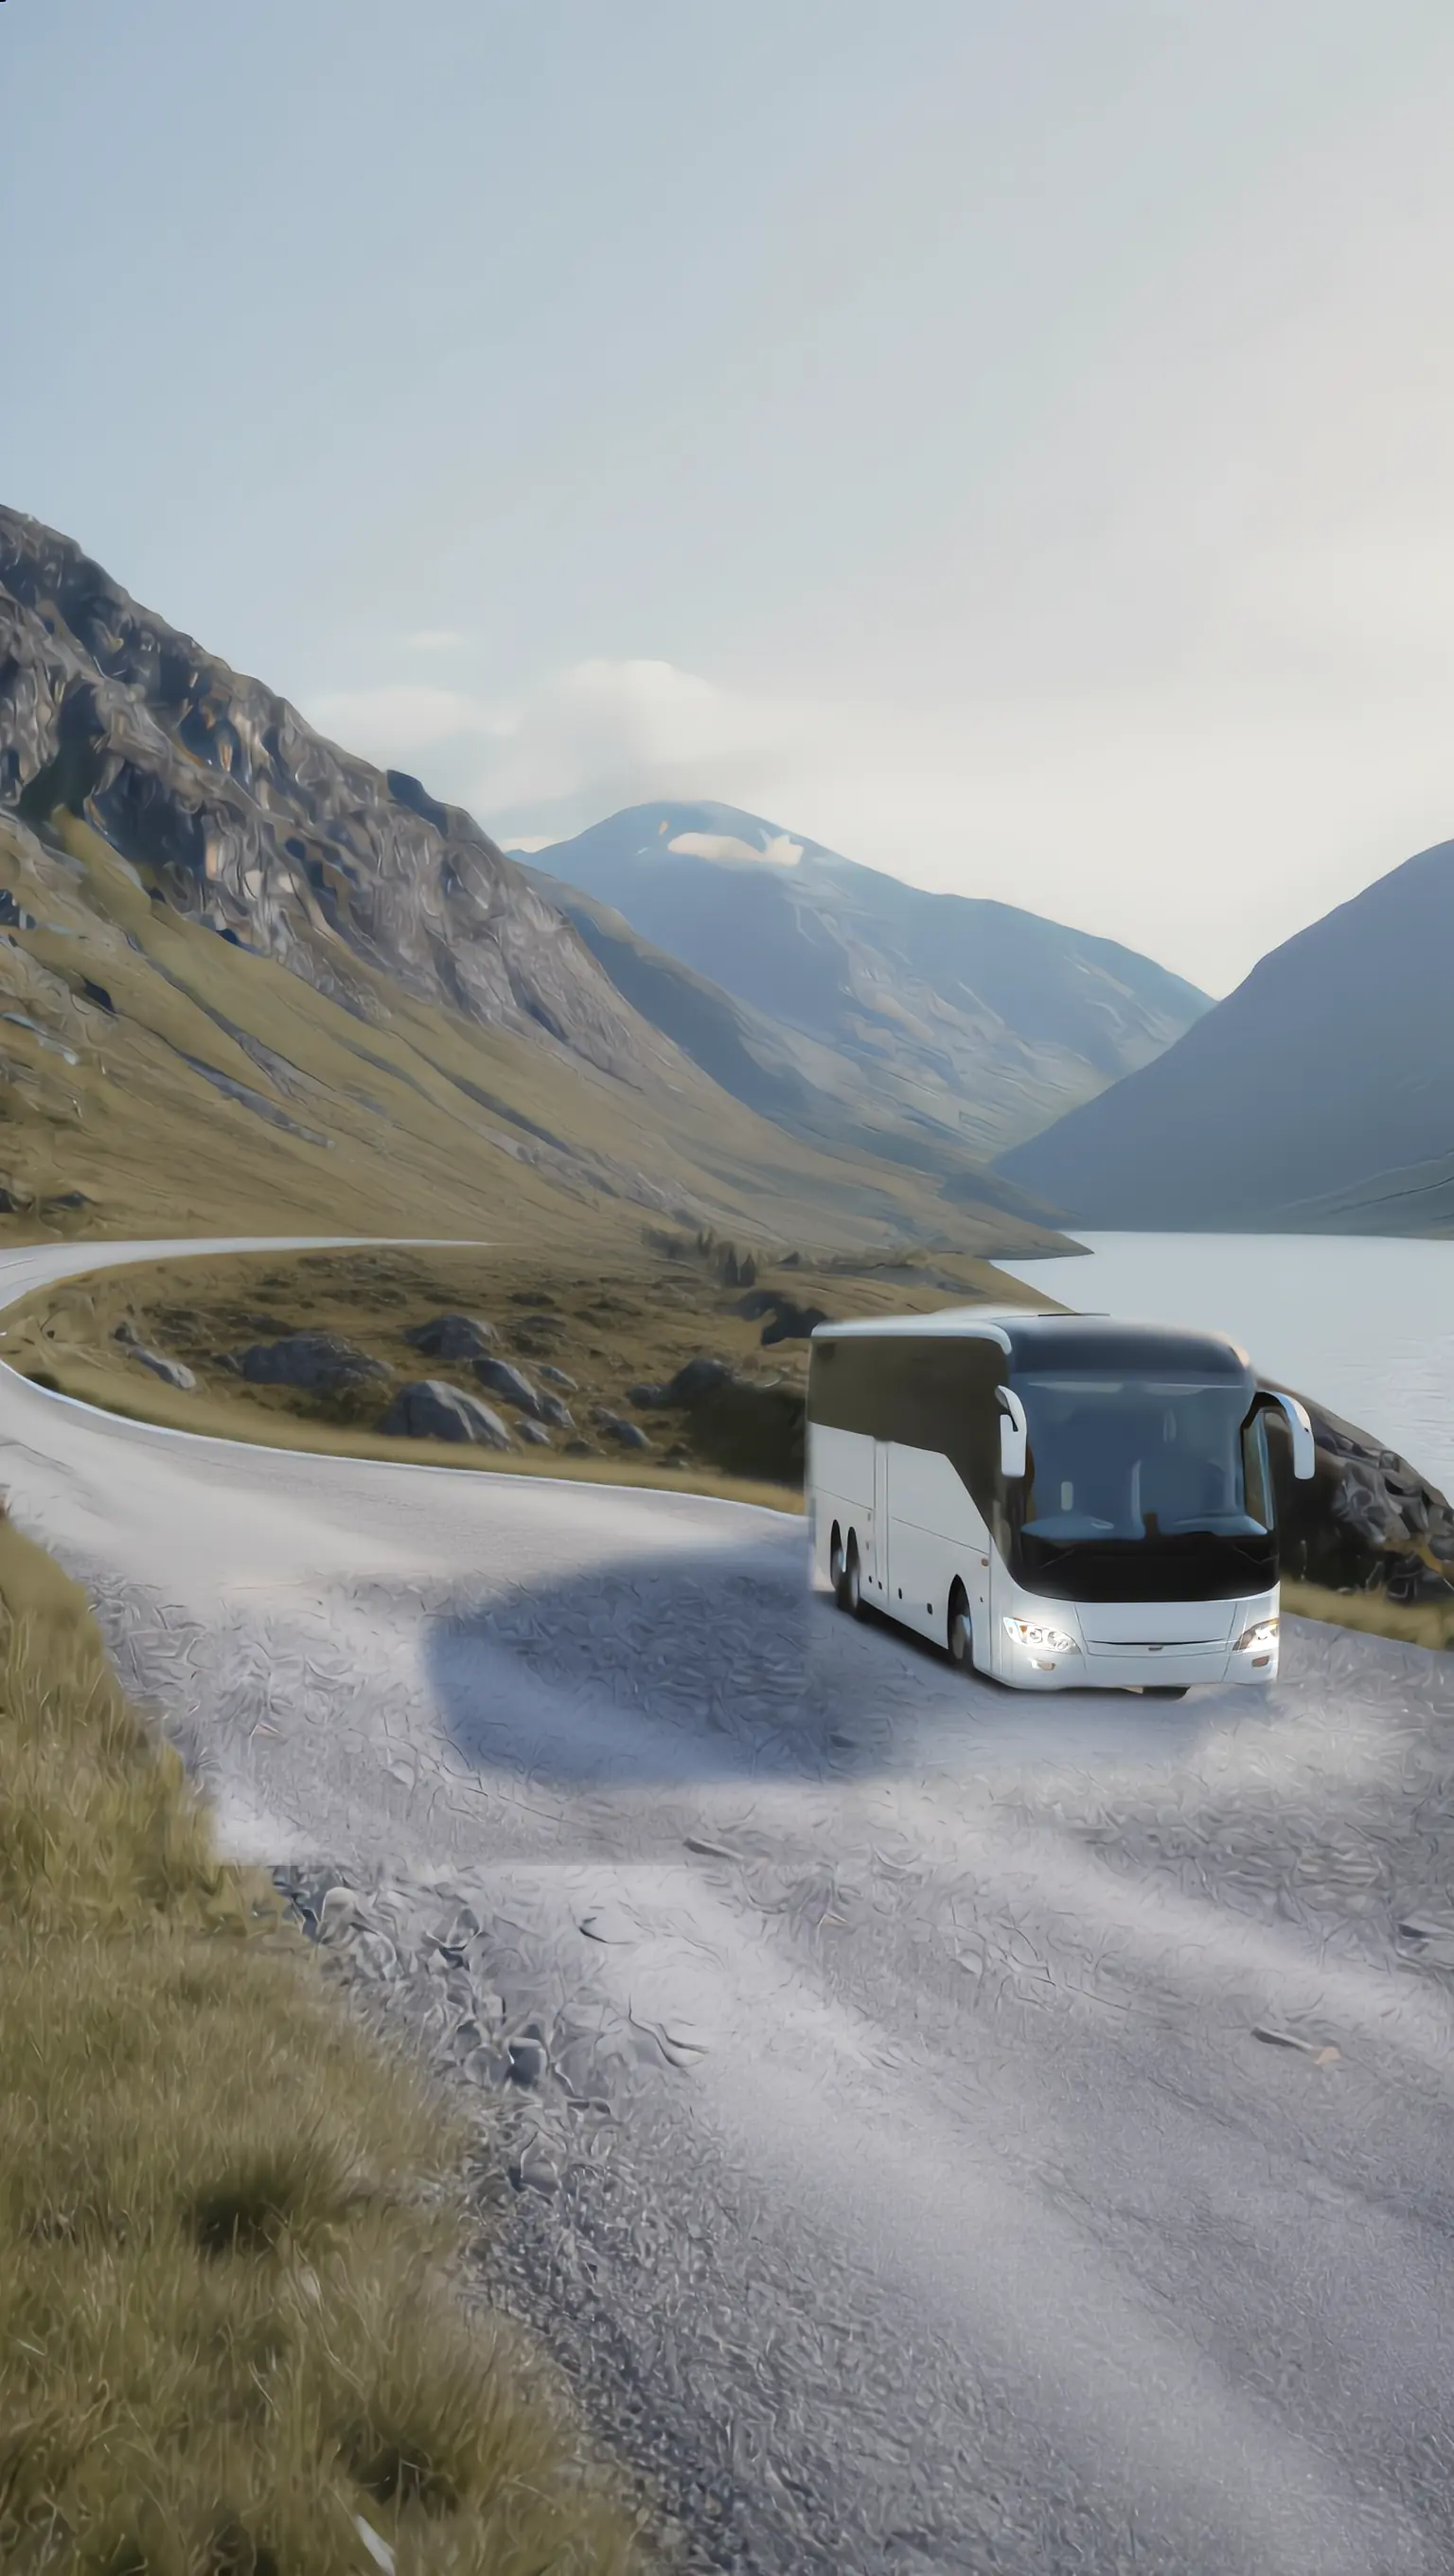
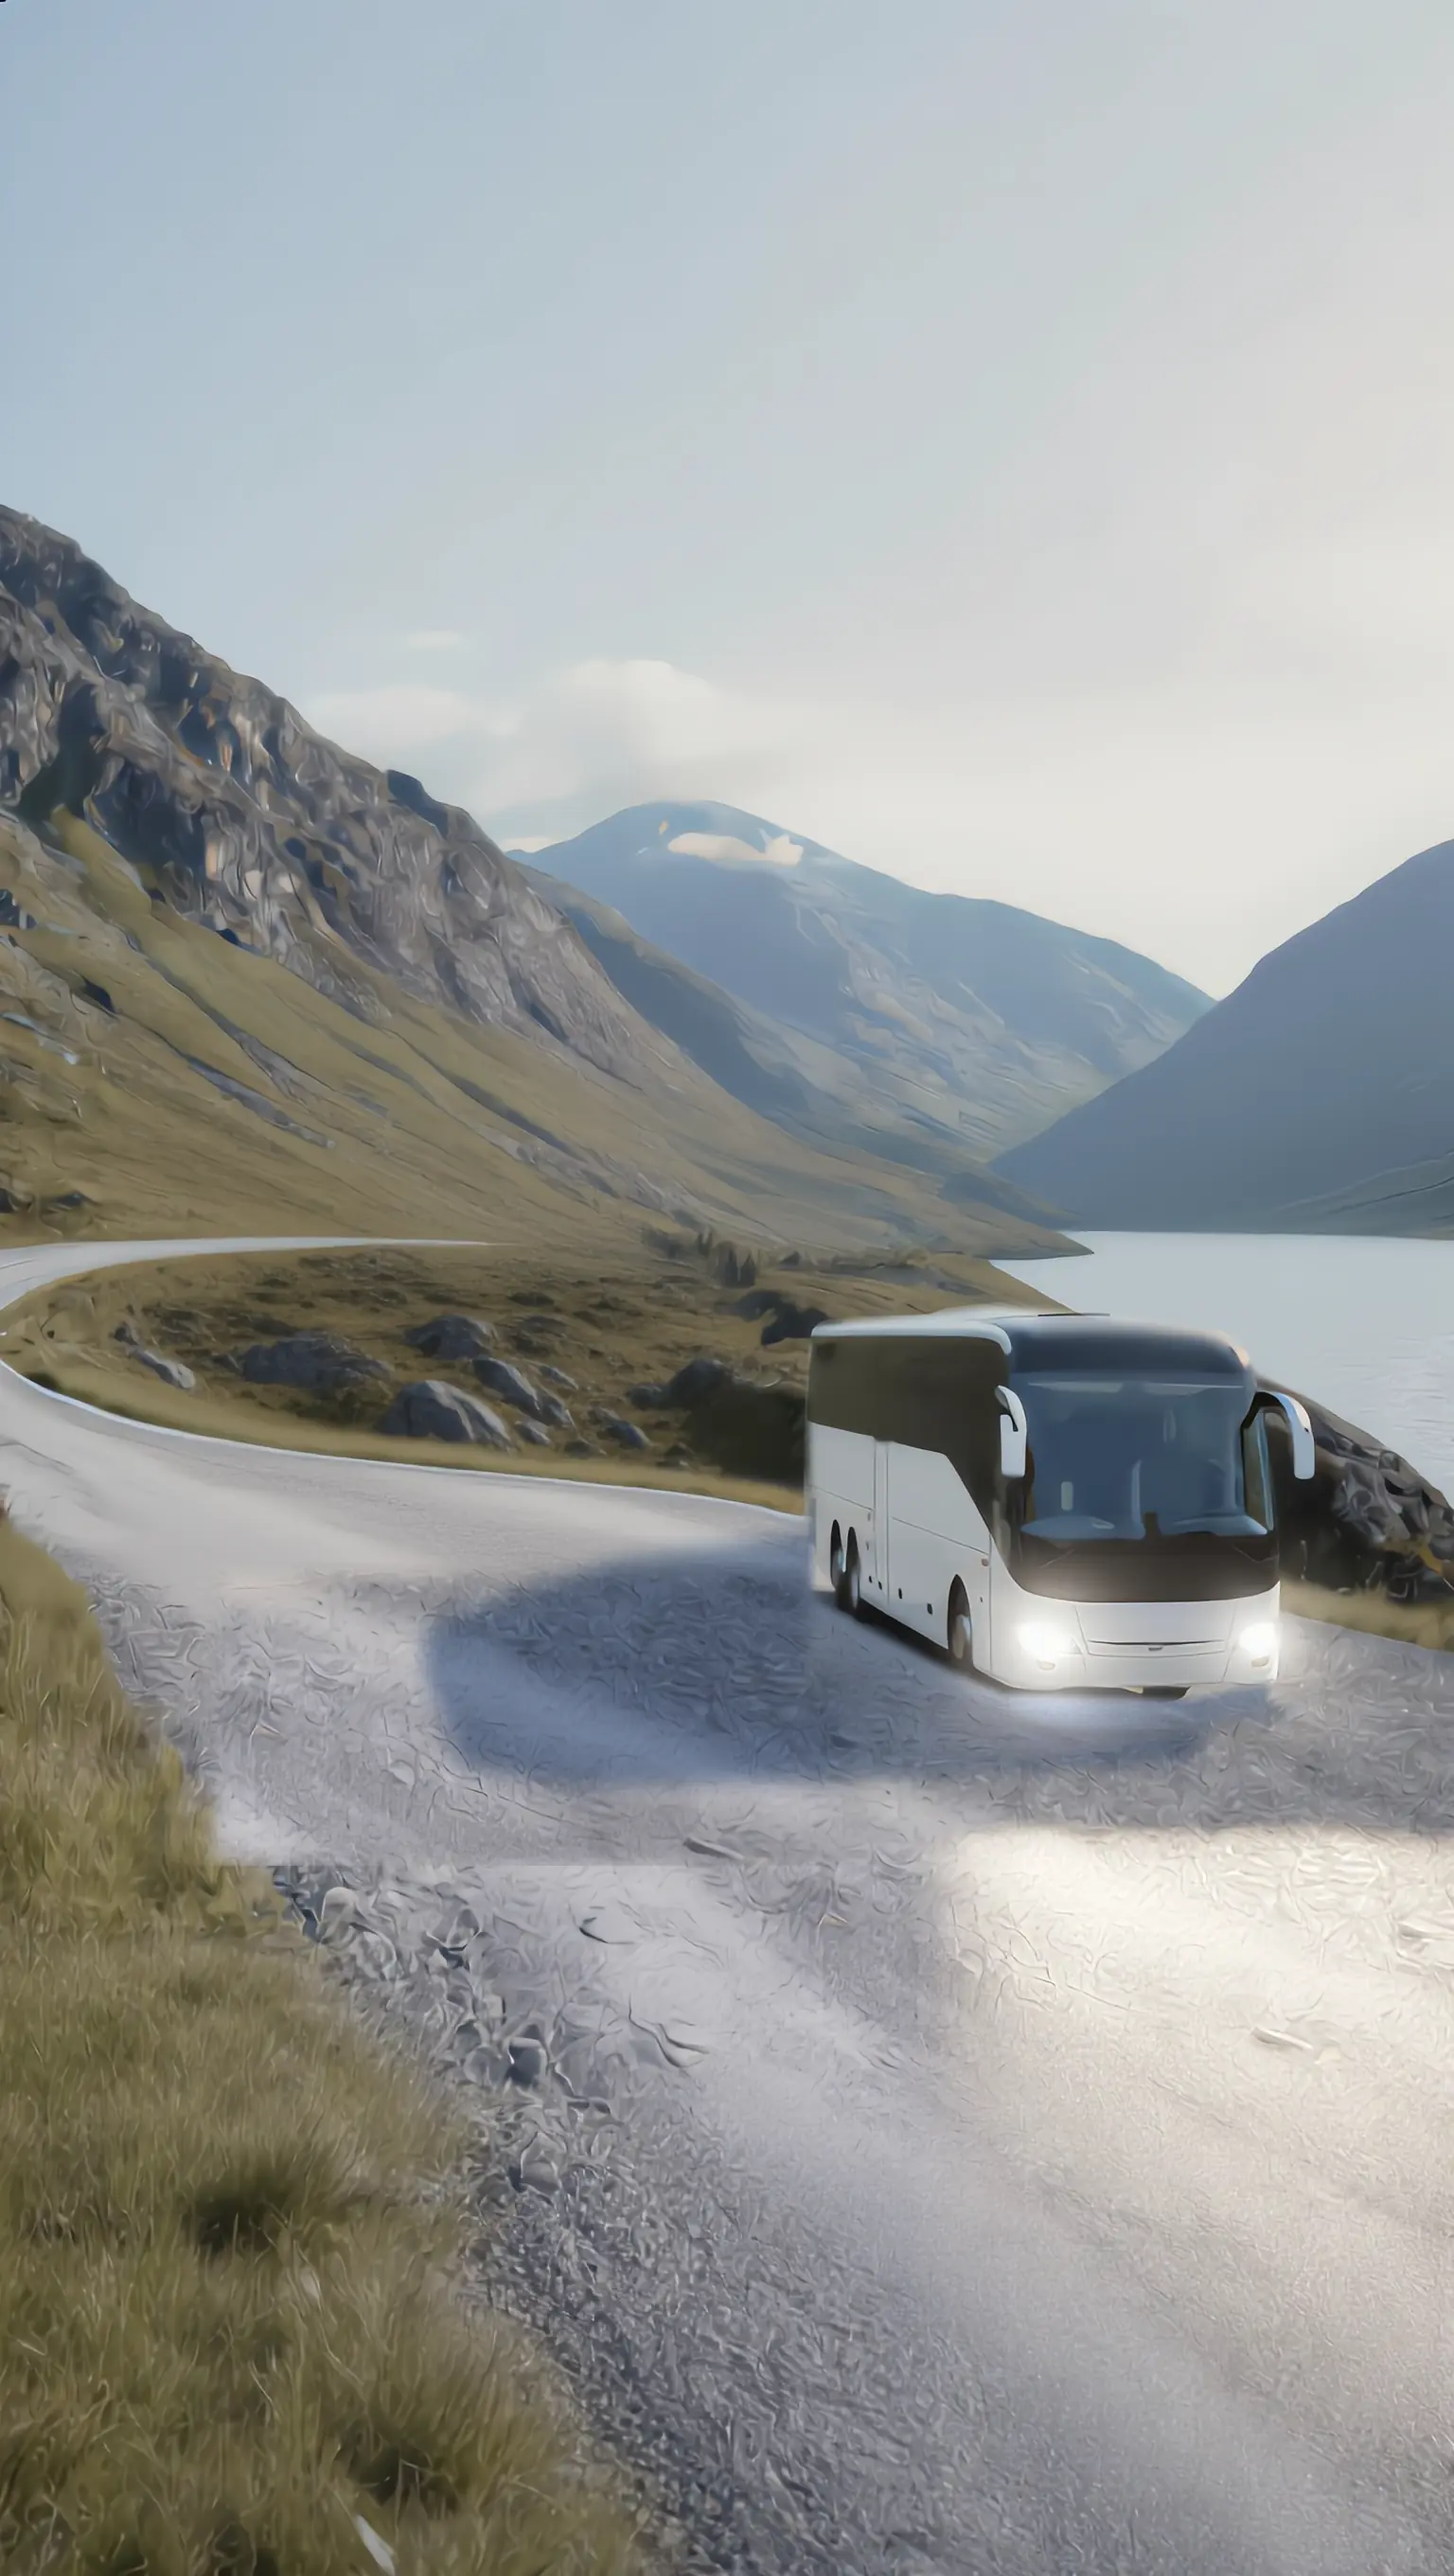
Use real headlight renders for the vertical /choose/ scene
The two new lit renders (renamed to intro-mobile-truck-light.png and
intro-mobile-bus-light.png) replace the light that was transferred from the
horizontal frames and the drawn light pool. They are slightly shifted and
scaled, so each is fitted to its unlit frame (truck 0.9880/0.9895 +9.25/+14.75,
bus 0.9885/0.9955 +10/+6). As on desktop, only the added light is taken:
sharp at the lamps, softened on the road, limited to the lamps and the road
in front of the vehicle. It is added onto the unlit layers, so background
and shadows stay identical and nothing jumps when the lights come on.

Claude-Session: https://claude.ai/code/session_01QnLGxmMJTS6H4BxBkXsJMw

Changed region(s): [[0.5938, 0.5938, 1.0, 1.0]]

diff --git a/CLAUDE.md b/CLAUDE.md
@@ -116,9 +116,10 @@
   `intro-mobile-photo.png` (общий кадр 832×1472 — по нему сняты форма и цвет тени автобуса). Тень автобуса
   нейросеть в «только автобусе» нарисовала плоским прямоугольником без фактуры, поэтому скрипт рисует её заново:
   мягкая синеватая полоса + контактная тень под днищем, одинаковая в общем кадре и в слое «только автобус».
-  На месте фуры в слое «только автобус» дорога взята из «только фуры» правее и ниже (тот же гравий). Свечение
-  фар перенесено из горизонтальных слоёв (своих версий с фарами нет), пятно света перед автобусом нарисовано
-  мягкими эллипсами. Результат — `intro-mobile-*-updated.png`.
+  На месте фуры в слое «только автобус» дорога взята из «только фуры» правее и ниже (тот же гравий).
+  Фары — из кадров генератора `intro-mobile-truck-light.png` / `intro-mobile-bus-light.png` (подогнаны масштабом
+  и сдвигом): на слои без фар добавляется только прибавка света в зоне фар и дороги перед машиной, как на ПК.
+  Результат — `intro-mobile-*-updated.png`.
 - `build.js` дописывает к картинкам `/choose/` `?v=<хэш>`: после пересборки кадров браузер не покажет старые из кэша.
 - Звук: `src/choose/media/engine-truck.mp3` и `engine-bus.mp3`. Подключаются, только если файл есть: `build.js`
   записывает найденные в `data-sounds`. Играют только по клику/нажатию; при `prefers-reduced-motion` — без звука
